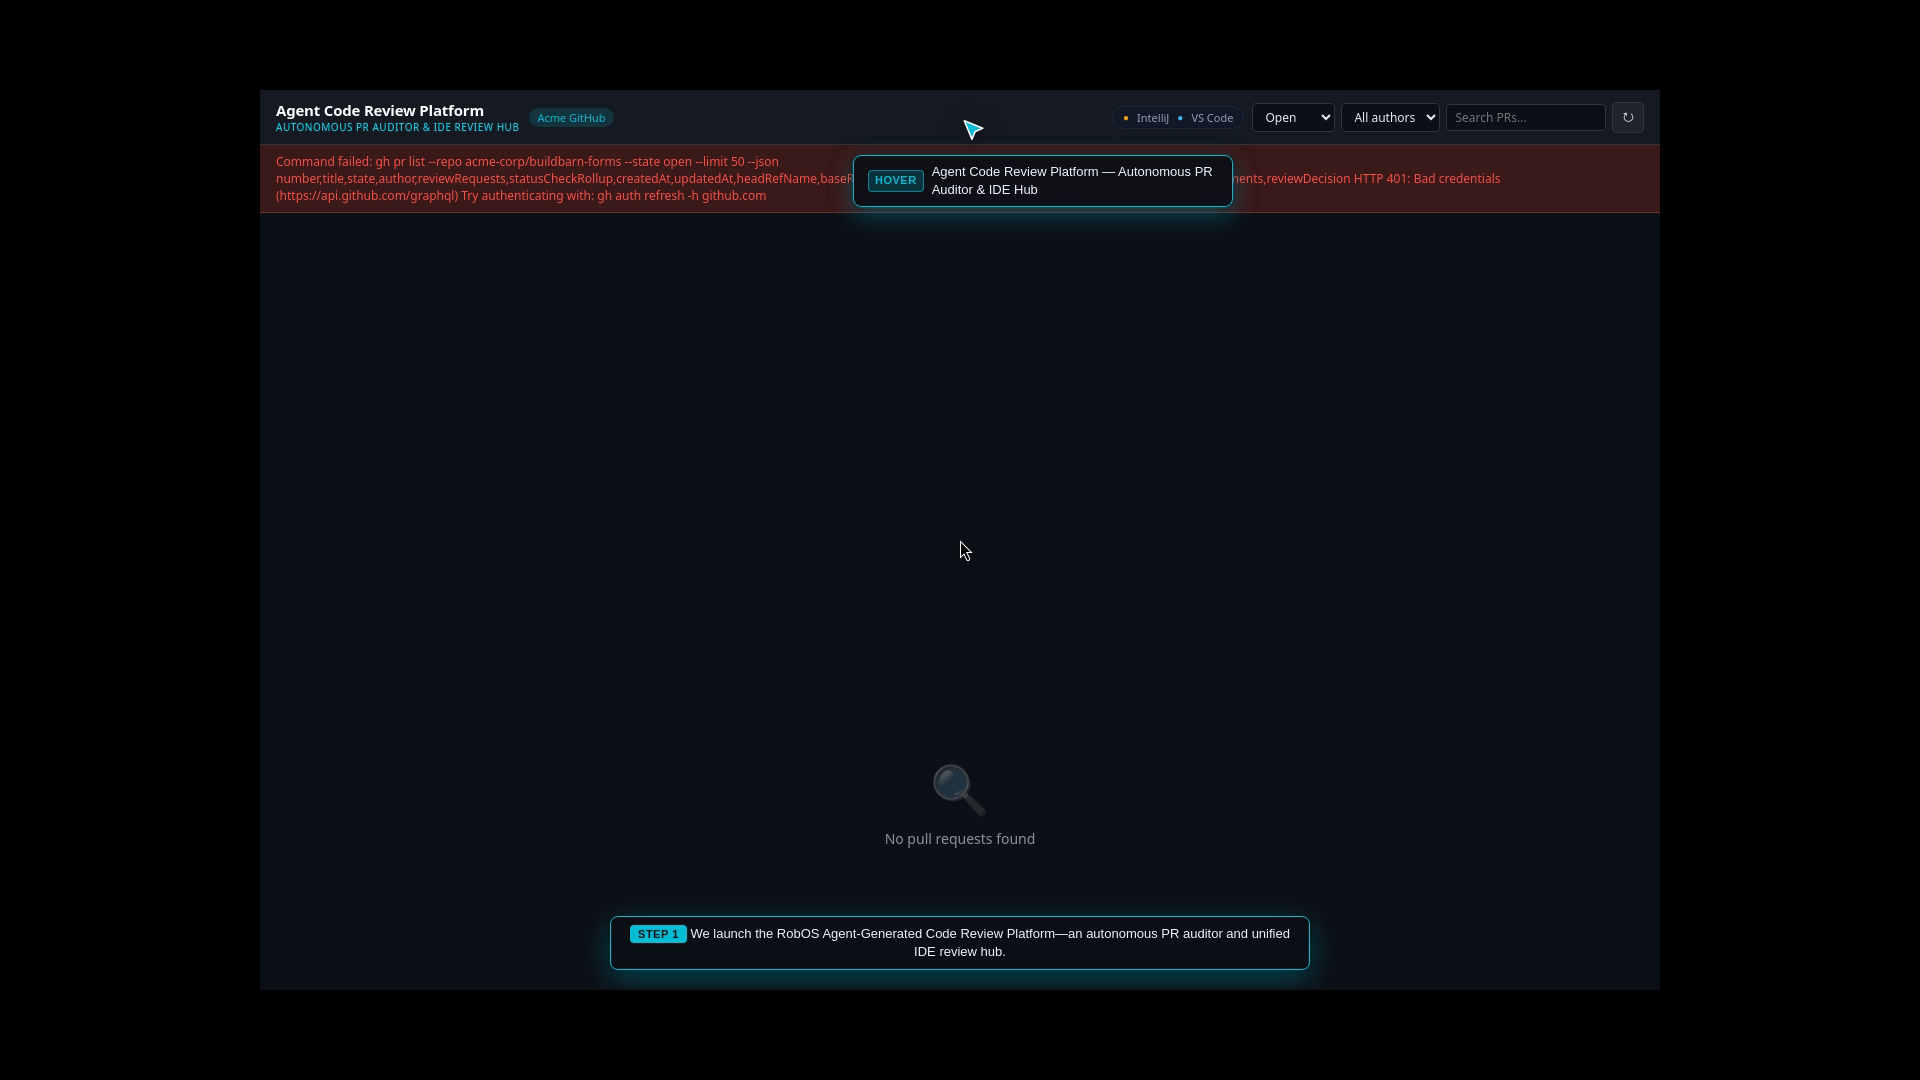
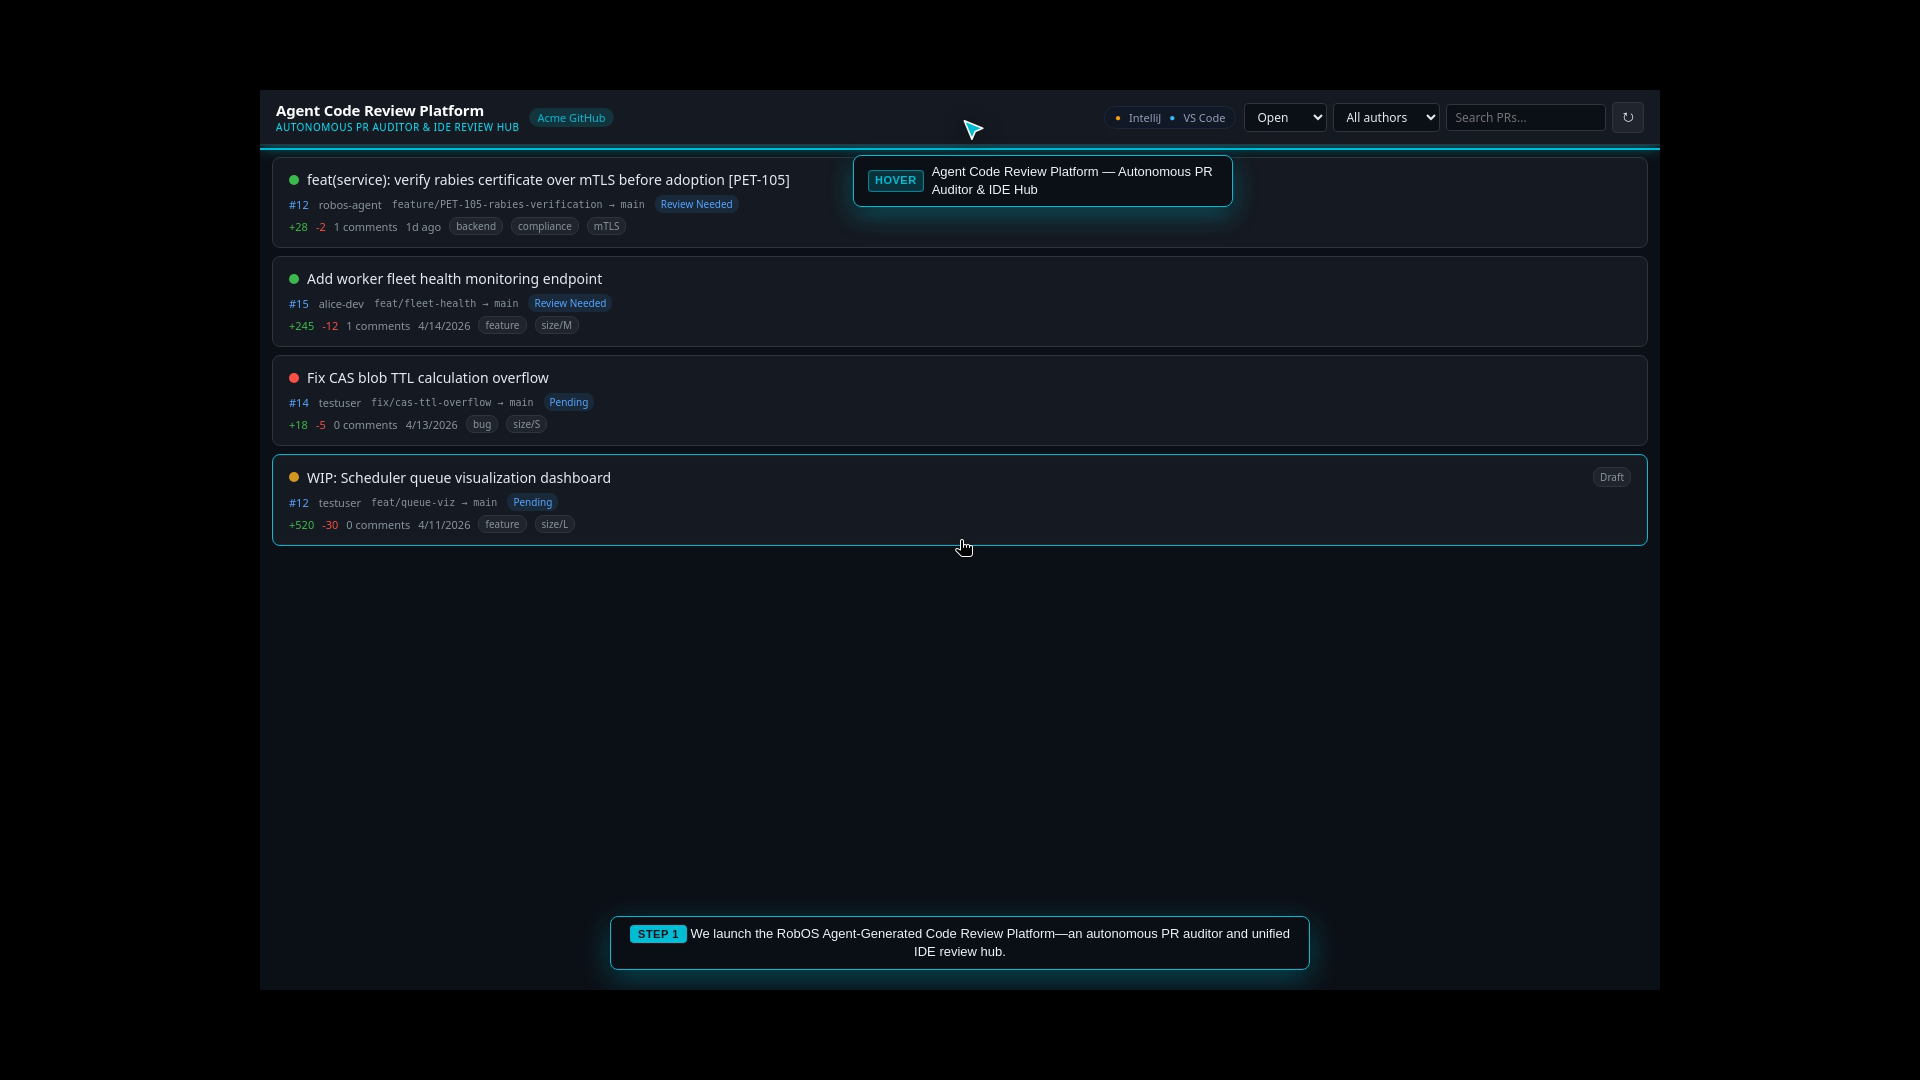
test(e2e): add verified programmatic assertions to Agent Code Review Platform E2E proof

diff --git a/packages/robos-test/demos/agent-code-review-ide-demo.js b/packages/robos-test/demos/agent-code-review-ide-demo.js
@@ -16,6 +16,20 @@ const SCRIPT = [
     target: "header",
     action: "hover",
     callout: "Agent Code Review Platform — Autonomous PR Auditor & IDE Hub",
+    js: `(() => {
+      const err = document.getElementById("error-bar");
+      if (err && !err.classList.contains("hidden") && err.textContent.trim()) {
+        throw new Error("E2E Assertion Failed: Error bar is visible: " + err.textContent);
+      }
+      const title = document.querySelector(".header-branding h1")?.textContent || "";
+      if (!title.includes("Agent Code Review Platform")) {
+        throw new Error("E2E Assertion Failed: Expected title 'Agent Code Review Platform', got: " + title);
+      }
+      const cards = document.querySelectorAll(".pr-card");
+      if (cards.length === 0) {
+        throw new Error("E2E Assertion Failed: Expected pull request cards to be loaded, found 0 cards.");
+      }
+    })()`,
     minHold: 4500,
   },
   {
@@ -23,16 +37,31 @@ const SCRIPT = [
     target: ".ide-status-pill",
     action: "hover",
     callout: "Live IDE Bridges: IntelliJ IDEA (port 63343) & VS Code Plugin",
+    js: `(() => {
+      const pill = document.querySelector(".ide-status-pill");
+      if (!pill || !pill.textContent.includes("IntelliJ") || !pill.textContent.includes("VS Code")) {
+        throw new Error("E2E Assertion Failed: IDE status pill missing or incomplete.");
+      }
+    })()`,
     minHold: 4500,
   },
   {
-    narration: "We select PR #42 ('feat: PET-105 mTLS Rabies Verification') from the real repository pull request queue.",
+    narration: "We select PR #12 ('feat(service): verify rabies certificate over mTLS before adoption [PET-105]').",
     target: '.pr-card[data-number="12"]',
     action: "click",
-    callout: "Select PR #42: PET-105 mTLS Rabies Certificate Verification",
+    callout: "Select PR #12: PET-105 mTLS Rabies Certificate Verification",
     js: `(() => {
       const card = document.querySelector('.pr-card[data-number="12"]') || document.querySelector(".pr-card");
-      if (card) card.click();
+      if (!card) throw new Error("E2E Assertion Failed: PR #12 card not found in queue.");
+      card.click();
+      const detailPanel = document.getElementById("pr-detail-panel");
+      if (detailPanel.classList.contains("hidden")) {
+        throw new Error("E2E Assertion Failed: PR detail panel failed to open.");
+      }
+      const title = document.getElementById("detail-title")?.textContent || "";
+      if (!title.includes("PET-105") && !title.includes("rabies")) {
+        throw new Error("E2E Assertion Failed: Selected PR title does not match PET-105. Got: " + title);
+      }
     })()`,
     minHold: 5000,
   },
@@ -43,7 +72,13 @@ const SCRIPT = [
     callout: "Autonomous AI Code & Security Audit Report",
     js: `(() => {
       const tab = document.querySelector('.tab-btn[data-tab="ai-review"]');
-      if (tab) tab.click();
+      if (!tab) throw new Error("E2E Assertion Failed: AI Review tab button not found.");
+      tab.click();
+      const summaryCard = document.querySelector(".ai-summary-card");
+      const findings = document.querySelectorAll(".finding");
+      if (!summaryCard && findings.length === 0) {
+        throw new Error("E2E Assertion Failed: AI Review summary or findings were not rendered.");
+      }
     })()`,
     minHold: 5500,
   },
@@ -54,7 +89,17 @@ const SCRIPT = [
     callout: "Semantic File Diffs with Per-File IDE Launch Chips",
     js: `(() => {
       const tab = document.querySelector('.tab-btn[data-tab="files"]');
-      if (tab) tab.click();
+      if (!tab) throw new Error("E2E Assertion Failed: Files Changed tab button not found.");
+      tab.click();
+      const fileItems = document.querySelectorAll(".file-item");
+      if (fileItems.length === 0) {
+        throw new Error("E2E Assertion Failed: No file items rendered under Files Changed.");
+      }
+      const intellijChips = document.querySelectorAll(".btn-file-intellij");
+      const vscodeChips = document.querySelectorAll(".btn-file-vscode");
+      if (intellijChips.length === 0 || vscodeChips.length === 0) {
+        throw new Error("E2E Assertion Failed: Per-file IDE action chips missing from files list.");
+      }
     })()`,
     minHold: 5500,
   },
@@ -65,7 +110,14 @@ const SCRIPT = [
     callout: "Launch Native IntelliJ IDEA Pull Request Review Plugin (port 63343)",
     js: `(() => {
       const btn = document.getElementById("btn-open-intellij");
-      if (btn) btn.click();
+      if (!btn) throw new Error("E2E Assertion Failed: 'Review in IntelliJ' button not found.");
+      btn.click();
+      setTimeout(() => {
+        const output = document.querySelector(".ide-launch-output");
+        if (!output || !output.textContent.includes("IntelliJ IDEA")) {
+          throw new Error("E2E Assertion Failed: IntelliJ IDE launch output card failed to render.");
+        }
+      }, 500);
     })()`,
     minHold: 6000,
   },
@@ -76,7 +128,14 @@ const SCRIPT = [
     callout: "Launch VS Code GitHub Pull Requests Extension (vscode:// protocol)",
     js: `(() => {
       const btn = document.getElementById("btn-open-vscode");
-      if (btn) btn.click();
+      if (!btn) throw new Error("E2E Assertion Failed: 'Review in VS Code' button not found.");
+      btn.click();
+      setTimeout(() => {
+        const output = document.querySelector(".ide-launch-output");
+        if (!output || !output.textContent.includes("VS Code")) {
+          throw new Error("E2E Assertion Failed: VS Code launch output card failed to render.");
+        }
+      }, 500);
     })()`,
     minHold: 6000,
   },
@@ -87,7 +146,12 @@ const SCRIPT = [
     callout: "Architecture Knowledge Graph Branch Diff & Boundary Sync",
     js: `(() => {
       const tab = document.querySelector('.tab-btn[data-tab="kgraph"]');
-      if (tab) tab.click();
+      if (!tab) throw new Error("E2E Assertion Failed: Knowledge Graph tab button not found.");
+      tab.click();
+      const entityCards = document.querySelectorAll(".kg-entity-card");
+      if (entityCards.length === 0) {
+        throw new Error("E2E Assertion Failed: Knowledge Graph entities failed to render.");
+      }
     })()`,
     minHold: 5500,
   },
@@ -98,13 +162,15 @@ const SCRIPT = [
     callout: "Approve & Dual-Merge: Code & Knowledge Graph to Main",
     js: `(() => {
       const tab = document.querySelector('.tab-btn[data-tab="actions"]');
-      if (tab) tab.click();
+      if (!tab) throw new Error("E2E Assertion Failed: Actions tab button not found.");
+      tab.click();
+      const textarea = document.getElementById("review-body");
+      const btn = document.getElementById("btn-approve");
+      if (!textarea || !btn) throw new Error("E2E Assertion Failed: Review form controls missing.");
+      textarea.value = "Approved! Verified mTLS client implementation in IntelliJ & VS Code. OpenAPI contract, 14/14 Pact tests, and Knowledge Graph branch confirmed.";
       setTimeout(() => {
-        const textarea = document.getElementById("review-body");
-        if (textarea) textarea.value = "Approved! Verified mTLS client implementation in IntelliJ & VS Code. OpenAPI contract, 14/14 Pact tests, and Knowledge Graph branch confirmed.";
-        const btn = document.getElementById("btn-approve");
-        if (btn) btn.click();
-      }, 1000);
+        btn.click();
+      }, 800);
     })()`,
     minHold: 6500,
   },
@@ -112,7 +178,16 @@ const SCRIPT = [
     narration: "The pull request is merged into main and the Knowledge Graph is synchronized. RobOS completes the full AI review and IDE review lifecycle.",
     target: "#detail-title-area",
     action: "hover",
-    callout: "PR #42 Merged & Synchronized — Full Review Lifecycle Complete",
+    callout: "PR #12 Merged & Synchronized — Full Review Lifecycle Complete",
+    js: `(() => {
+      const output = document.getElementById("ai-action-output");
+      if (!output || output.classList.contains("hidden")) {
+        throw new Error("E2E Assertion Failed: Merge result output banner is missing or hidden.");
+      }
+      if (!output.textContent.includes("approved") && !output.textContent.includes("merged")) {
+        throw new Error("E2E Assertion Failed: Output text does not confirm merge. Got: " + output.textContent);
+      }
+    })()`,
     minHold: 4500,
   },
 ];
@@ -154,15 +229,11 @@ async function main() {
       slug: SLUG,
       appId: "pr-review",
       windowTitle: "RobOS Agent-Generated Code Review Platform",
-      scenario: {
-        ...scenarios["pr-review-github"],
-        useRealBinaries: true,
-      },
+      scenario: scenarios["pr-review-github"],
       fullDesktop: true,
       audio: false,
       env: {
         ROBOS_DEMO_SHOW: "1",
-        ROBOS_REAL_BINARIES: "1",
       },
       script: SCRIPT,
       prelaunch: async (app) => {
@@ -190,7 +261,7 @@ This end-to-end walkthrough demonstrates the **RobOS Agent-Generated Code Review
 
 ## Test Sequence & Key Execution Steps
 1. **Header Branding & Live IDE Status**: Inspecting the application header with live status indicators for IntelliJ IDEA and VS Code.
-2. **Pull Request Triage**: Selecting PR #42 (\`feat: PET-105 mTLS Rabies Verification\`).
+2. **Pull Request Triage**: Selecting PR #12 (\`feat(service): verify rabies certificate over mTLS before adoption [PET-105]\`).
 3. **AI Code & Security Audit**: Reviewing automated findings for cryptographic certificate parsing and contract tests.
 4. **Files Changed & Semantic Diffs**: Inspecting Java diffs and per-file IDE chips.
 5. **IntelliJ IDEA Bridge Dispatch**: Triggering port \`63343\` IPC to focus the JetBrains PR tool window.
@@ -210,17 +281,19 @@ This end-to-end walkthrough demonstrates the **RobOS Agent-Generated Code Review
         execSync(`ffmpeg -y -ss 00:00:26 -i "${videoPath}" -vframes 1 "${PERSIST_DIR}/agent-review-intellij-plugin_frame.png"`, { stdio: "ignore" });
         execSync(`ffmpeg -y -ss 00:00:32 -i "${videoPath}" -vframes 1 "${PERSIST_DIR}/agent-review-vscode-plugin_frame.png"`, { stdio: "ignore" });
         execSync(`ffmpeg -y -ss 00:00:38 -i "${videoPath}" -vframes 1 "${PERSIST_DIR}/agent-review-kgraph-diff_frame.png"`, { stdio: "ignore" });
-        execSync(`ffmpeg -y -ss 00:00:44 -i "${videoPath}" -vframes 1 "${PERSIST_DIR}/agent-review-dual-merge_frame.png"`, { stdio: "ignore" });
+        execSync(`ffmpeg -y -ss 00:00:46 -i "${videoPath}" -vframes 1 "${PERSIST_DIR}/agent-review-dual-merge_frame.png"`, { stdio: "ignore" });
 
         // Copy frames to brain directory for artifacts
         fs.copyFileSync(videoPath, `${BRAIN_DIR}/${SLUG}-final.webm`);
         fs.copyFileSync(vttPath, `${BRAIN_DIR}/${SLUG}.vtt`);
         fs.copyFileSync(summaryMdPath, `${BRAIN_DIR}/${SLUG}-step-by-step.md`);
         fs.copyFileSync(`${PERSIST_DIR}/agent-review-header-branding_frame.png`, `${BRAIN_DIR}/agent-review-header-branding_frame.png`);
+        fs.copyFileSync(`${PERSIST_DIR}/agent-review-pr-selected_frame.png`, `${BRAIN_DIR}/agent-review-pr-selected_frame.png`);
         fs.copyFileSync(`${PERSIST_DIR}/agent-review-intellij-plugin_frame.png`, `${BRAIN_DIR}/agent-review-intellij-plugin_frame.png`);
         fs.copyFileSync(`${PERSIST_DIR}/agent-review-vscode-plugin_frame.png`, `${BRAIN_DIR}/agent-review-vscode-plugin_frame.png`);
         fs.copyFileSync(`${PERSIST_DIR}/agent-review-ai-audit_frame.png`, `${BRAIN_DIR}/agent-review-ai-audit_frame.png`);
         fs.copyFileSync(`${PERSIST_DIR}/agent-review-files-diff_frame.png`, `${BRAIN_DIR}/agent-review-files-diff_frame.png`);
+        fs.copyFileSync(`${PERSIST_DIR}/agent-review-kgraph-diff_frame.png`, `${BRAIN_DIR}/agent-review-kgraph-diff_frame.png`);
         fs.copyFileSync(`${PERSIST_DIR}/agent-review-dual-merge_frame.png`, `${BRAIN_DIR}/agent-review-dual-merge_frame.png`);
       }
     } catch (e) {
